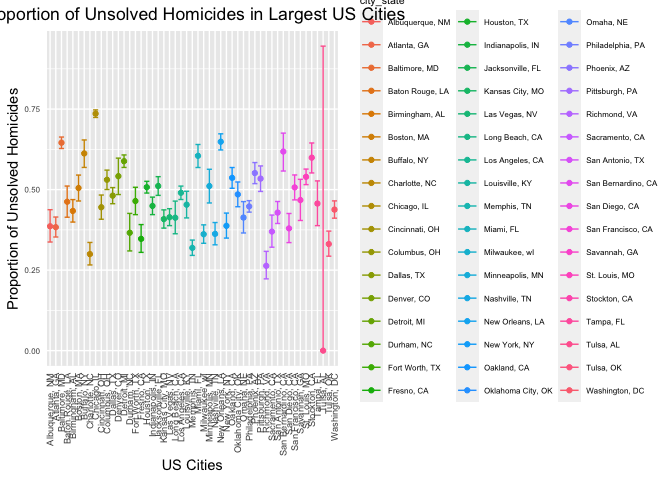
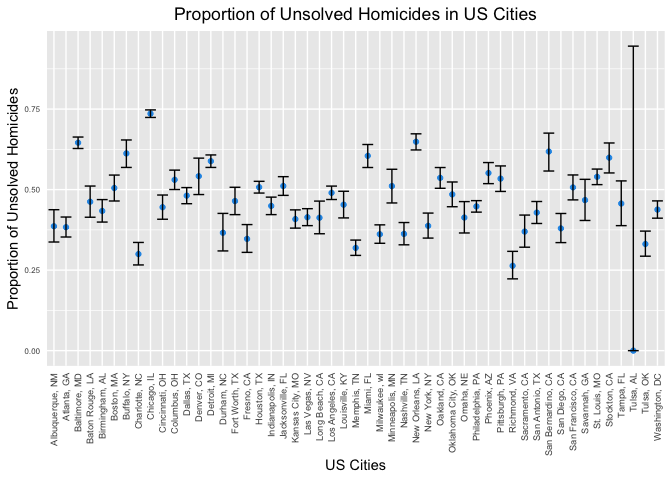
Doc knits correctly;plot looks good. Made small edits to text and code.

diff --git a/p8105_hw5_av2718.md b/p8105_hw5_av2718.md
@@ -11,7 +11,7 @@ homicide_raw = read_csv("data/homicide-data.csv") %>%
   janitor::clean_names()
 
 #Visualize first 8 rows
-head(homicide_raw, 8) # view first 8 rows of tidied data
+head(homicide_raw, 8) # view first 8 rows of raw data
 ## # A tibble: 8 × 12
 ##   uid    repor…¹ victi…² victi…³ victi…⁴ victi…⁵ victi…⁶ city  state   lat   lon
 ##   <chr>    <dbl> <chr>   <chr>   <chr>   <chr>   <chr>   <chr> <chr> <dbl> <dbl>
@@ -68,7 +68,7 @@ homicide_cities = pivot_wider(
   values_from = "n_obs") 
 homicide_cities[is.na(homicide_cities)]<- 0 #Change NA values to 0
 
-#Add column with total number of homocides
+#Add column with total number of homicides
 
 homicide_cities = 
   mutate(homicide_cities,
@@ -138,7 +138,7 @@ func_prop.test = function(homicide_cities){
 prop_test_cities
 }
 
-#Extract proportion of unsolved homicides and CIs for each
+#Extract proportion of unsolved homicides and CIs for each city
 
 prop_homicides = homicide_cities %>% 
   nest(data = unsolved_homicides:total_homicides) %>% 
@@ -162,18 +162,23 @@ head(prop_homicides, 3) # view first 8 rows of tidied data
 
 #### Proportion of Unsolved Homicides in US cities
 
+In the code chunk below, we use our new `prop_homicides` data frame to
+visualize the proportion of unsolved homicides in each US city. The plot
+shows that Chicago has the largest proportion of unsolved homicides
+among US cities, followed by Baltimore and New Orleans.
+
 ``` r
 
 plot_homicides = prop_homicides %>% 
   select(city_state, estimate, conf.low, conf.high) %>%
   mutate(city_state = fct_reorder(city_state, estimate)) %>% #reorder cities according to proportion of homicides
-  ggplot(aes( y = estimate, x = city_state, group = city_state, color = city_state)) +
-  geom_point() +
-  theme(axis.text.x = element_text(angle = 90, vjust = 0.5, hjust= 1)) +
+  ggplot(aes( y = estimate, x = city_state)) +
+  geom_point(color = 4) +
   geom_errorbar(aes(ymin = conf.low, ymax = conf.high)) + # add error bars based on CIs 
-  labs(title = "Proportion of Unsolved Homicides in Largest US Cities", 
+  labs(title = "Proportion of Unsolved Homicides in US Cities", 
          x = "US Cities", 
          y = "Proportion of Unsolved Homicides")+
+  theme(axis.text.x = element_text(angle = 90, vjust = 0.5, hjust = 1)) +
   theme(axis.text.y = element_text(size = 6)) +
   theme(plot.title = element_text(hjust = 0)) +
   theme(axis.ticks = element_blank()) +
